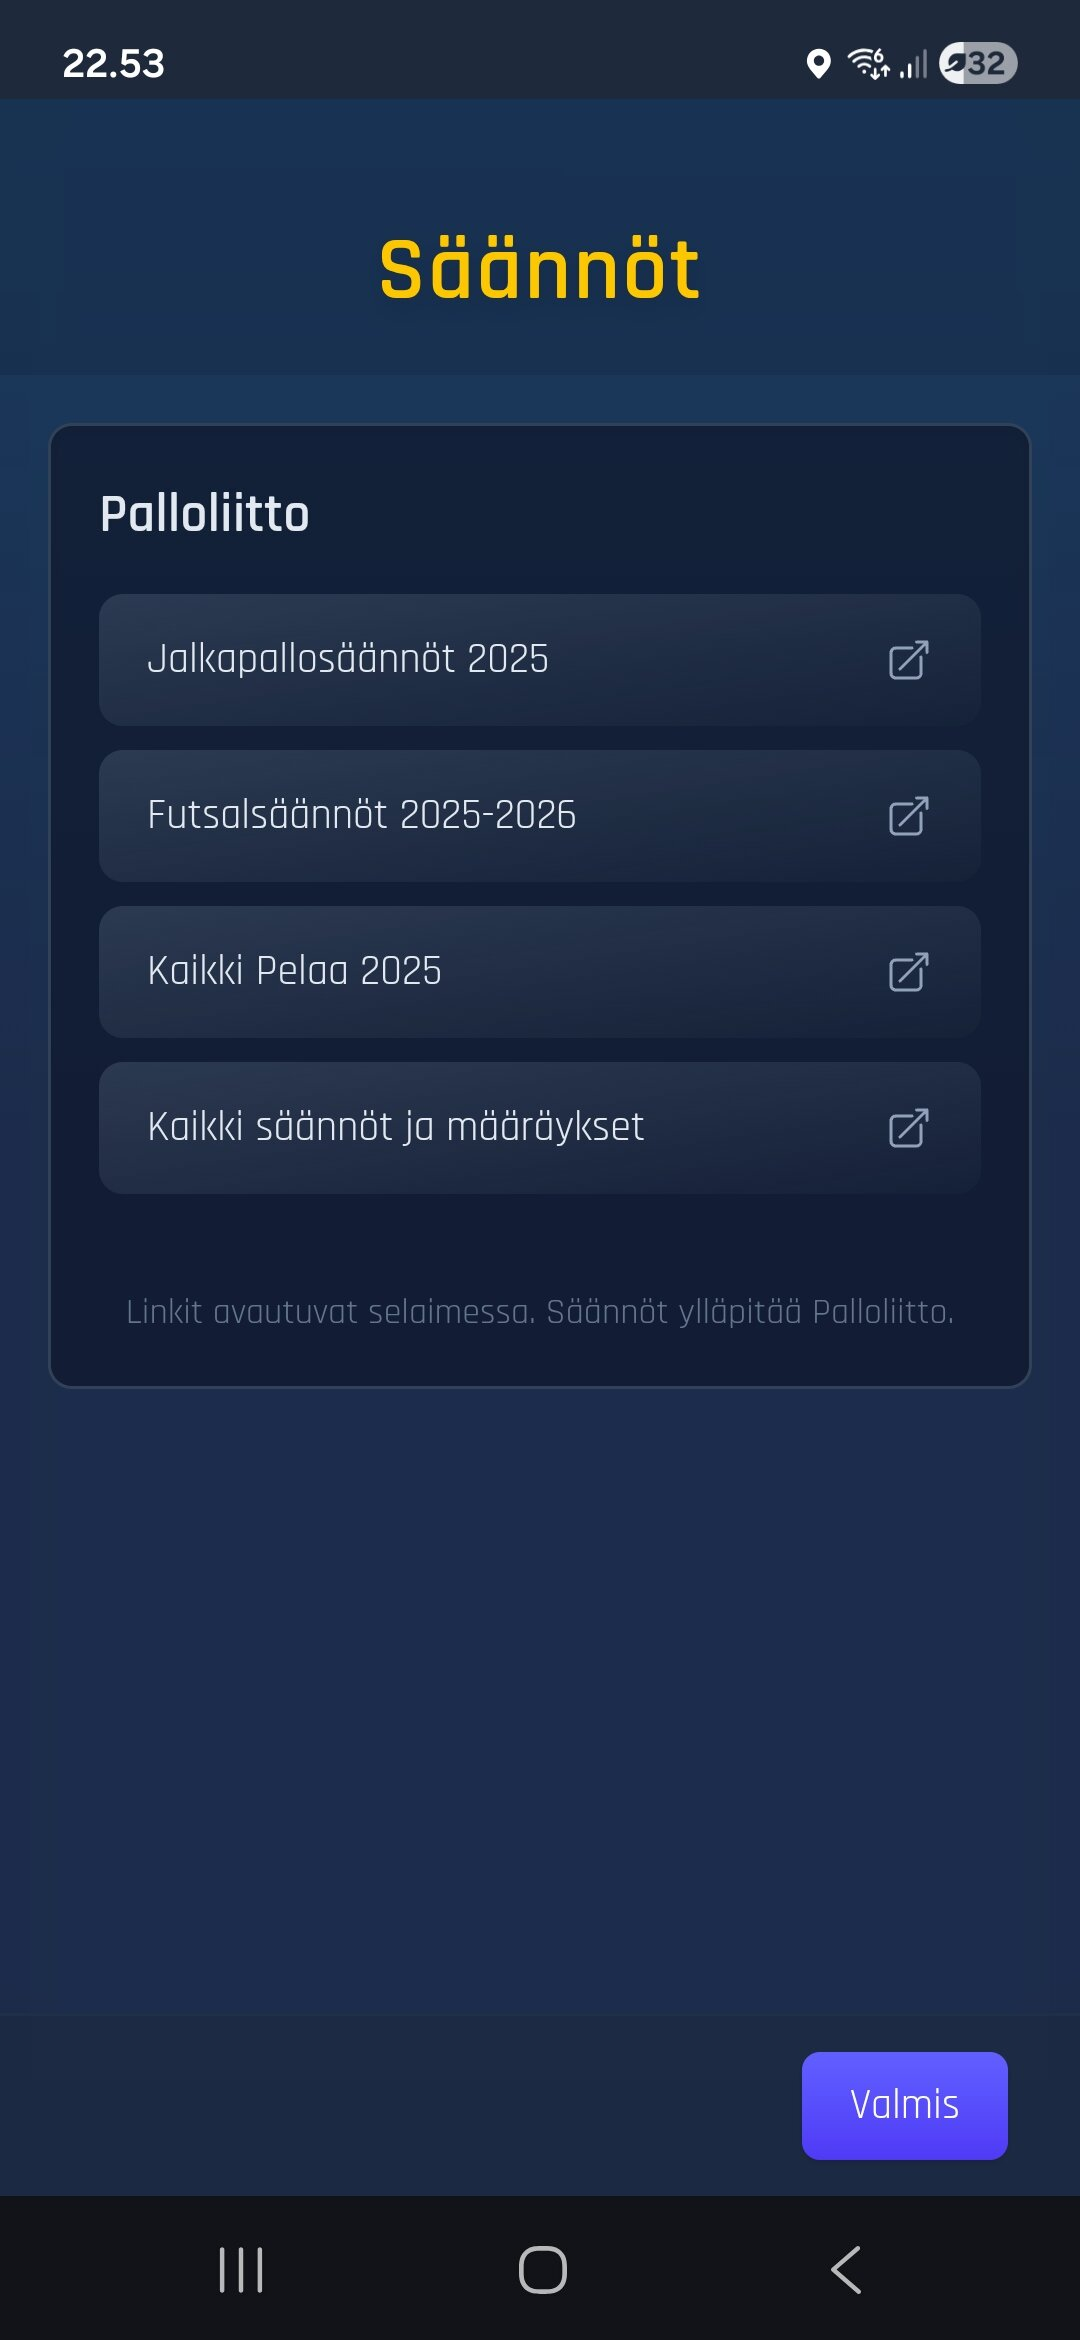
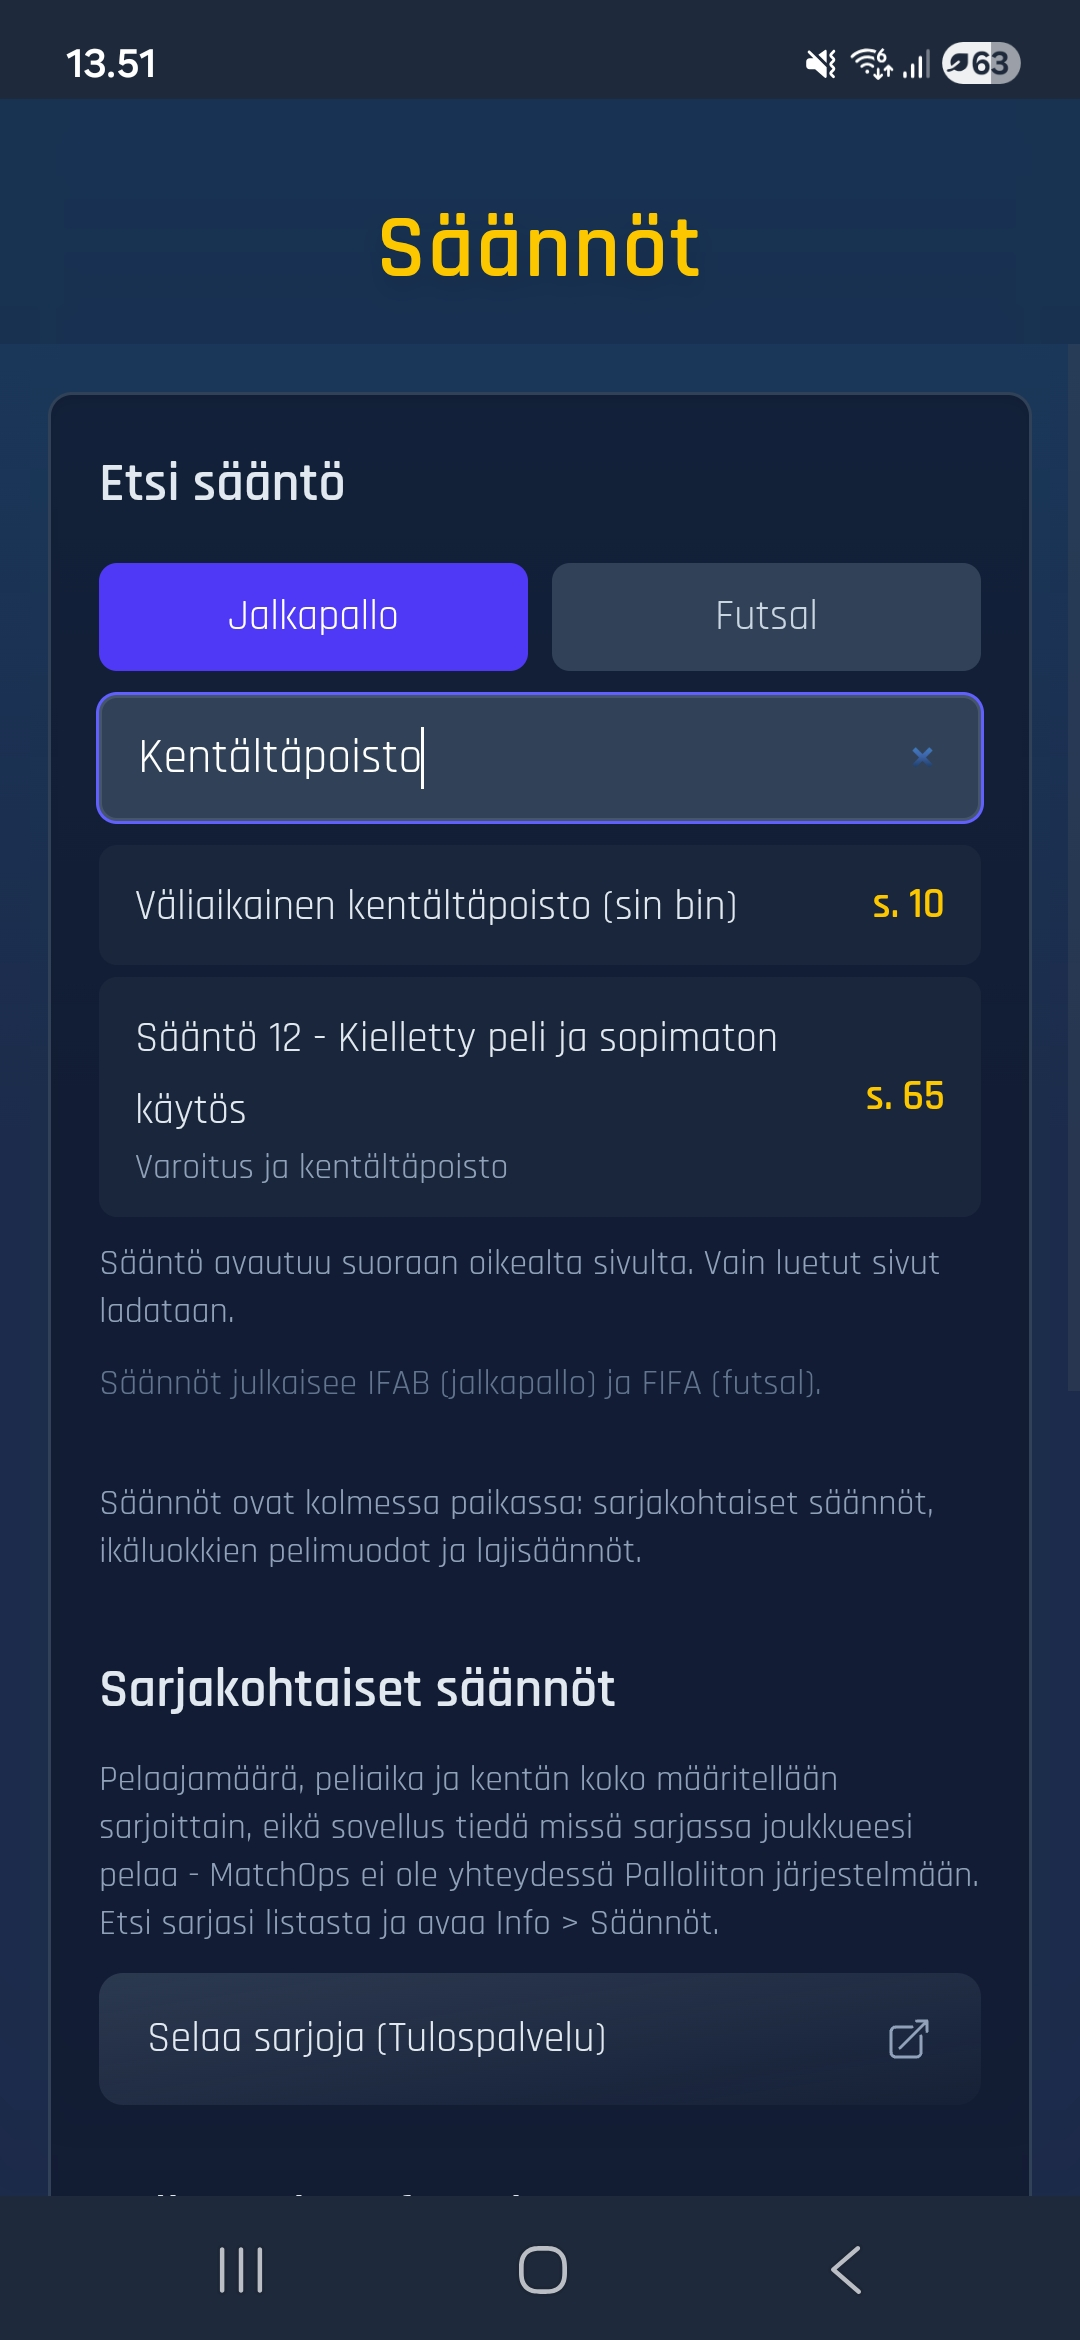
Marketing site: the rules screenshot shows the screen that exists now
The FI shot was of the links-only modal, listing "Jalkapallosäännöt
2025", "Futsalsäännöt 2025-2026" and "Kaikki Pelaa 2025" - the last of
which Palloliitto has delisted entirely. It was a picture of three
documents, one of which no longer exists, illustrating a card about rule
search.

Replaced with the search in use: Jalkapallo selected, "kentältäpoisto"
typed, and both results with their page numbers - including the sin bin
guidance, which is not a numbered law and would be missed by any search
that only read law titles.

English still has no shot and stays text-only, rather than showing a
Finnish screen to an English reader. It could not be taken yet: switching
language on Home hits the render loop fixed in #817.

Claude-Session: https://claude.ai/code/session_01KeY7QUkHKMt5DK6MCUM3ES

diff --git a/site/pages/index.tsx b/site/pages/index.tsx
@@ -68,13 +68,12 @@ const getScreenshots = (locale: string | undefined) => {
       ? '/screenshots/MatchOps_v2_personnel_en.jpg'
       : '/screenshots/MatchOps_v2_personnel_fi.jpg',
     futsal: '/screenshots/MatchOps_v2_futsal_en_fi.jpg',
-    // Blanked deliberately: the v2 rules screenshot shows "Jalkapallosäännöt
+    // Retaken 2026-09-10 for FI: the previous shot showed "Jalkapallosäännöt
     // 2025", "Futsalsäännöt 2025-2026" and "Kaikki Pelaa 2025" - the last of
-    // which Palloliitto has delisted entirely - in the old links-only layout
-    // that the search and in-app rulebook replaced. A picture of documents
-    // that no longer exist is a false claim, so the card runs text-only until
-    // MatchOps_v2_rules_{en,fi}.jpg is retaken.
-    officialRules: undefined,
+    // which Palloliitto has delisted entirely - in the links-only layout that
+    // search replaced. English is still awaiting its shot and runs text-only
+    // rather than showing a Finnish screen to an English reader.
+    officialRules: isEnglish ? undefined : '/screenshots/MatchOps_v2_rules_fi.jpg',
     cloudSync: isEnglish
       ? '/screenshots/MatchOps_v2_cloudsync_en.jpg'
       : '/screenshots/MatchOps_v2_cloudsync_fi.jpg',
